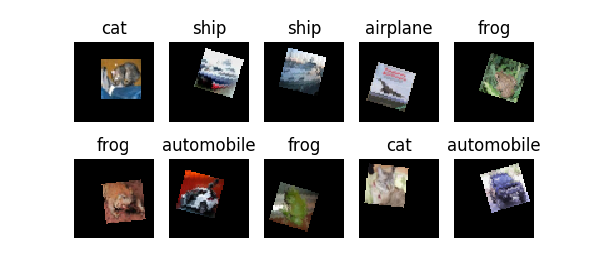
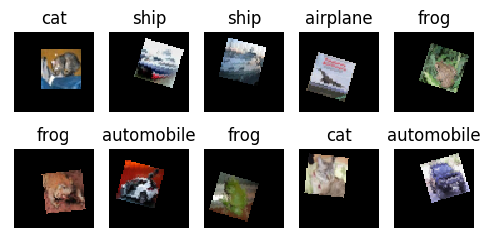
Escreve metodologia, experimentos, e resultados

diff --git a/relatorio/img/train-plot-CM.py b/relatorio/img/train-plot-CM.py
@@ -126,7 +126,7 @@ for ax in train_ax, val_ax:
 plt.legend()
 
 save_path = os.path.join(os.path.dirname(__file__), 'CM-training-accs.png')
-save = True
+save = False
 if save:
     plt.savefig(save_path)
 else:

diff --git a/relatorio/TODO.md b/relatorio/TODO.md
@@ -1,0 +1,5 @@
+Tarefas do relatório
+====================
+
+## Tarefas
+ - [ ] Cortar espaço branco ao redor das imagens.
